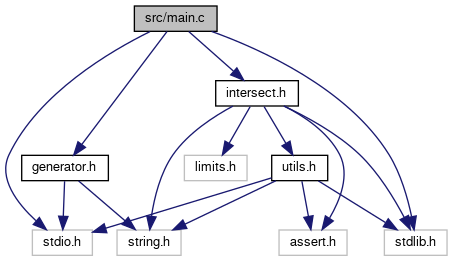
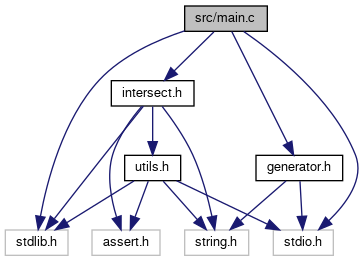
deploy: b0c580b66b162a24068f49e29a3c1f816b29efa1

diff --git a/intersect_8h.html b/intersect_8h.html
@@ -67,6 +67,7 @@ $(function() {
 <div class="header">
   <div class="summary">
 <a href="#nested-classes">Classes</a> &#124;
+<a href="#define-members">Macros</a> &#124;
 <a href="#func-members">Functions</a>  </div>
   <div class="headertitle">
 <div class="title">intersect.h File Reference</div>  </div>
@@ -78,18 +79,16 @@ $(function() {
 <div class="textblock"><code>#include &lt;stdlib.h&gt;</code><br />
 <code>#include &lt;assert.h&gt;</code><br />
 <code>#include &lt;string.h&gt;</code><br />
-<code>#include &lt;limits.h&gt;</code><br />
 <code>#include &quot;<a class="el" href="utils_8h_source.html">utils.h</a>&quot;</code><br />
 </div><div class="textblock"><div class="dynheader">
 Include dependency graph for intersect.h:</div>
 <div class="dyncontent">
 <div class="center"><img src="intersect_8h__incl.png" border="0" usemap="#asrc_2intersect_8h" alt=""/></div>
 <map name="asrc_2intersect_8h" id="asrc_2intersect_8h">
-<area shape="rect" title="Calculating inversions." alt="" coords="139,5,243,32"/>
+<area shape="rect" title="Calculating inversions." alt="" coords="106,5,210,32"/>
 <area shape="rect" title=" " alt="" coords="5,155,68,181"/>
 <area shape="rect" title=" " alt="" coords="92,155,160,181"/>
 <area shape="rect" title=" " alt="" coords="269,155,333,181"/>
-<area shape="rect" title=" " alt="" coords="295,80,357,107"/>
 <area shape="rect" href="utils_8h.html" title="General Utilities." alt="" coords="163,80,219,107"/>
 <area shape="rect" title=" " alt="" coords="184,155,244,181"/>
 </map>
@@ -113,6 +112,12 @@ Classes</h2></td></tr>
 <tr class="separator:"><td class="memSeparator" colspan="2">&#160;</td></tr>
 <tr class="memitem:"><td class="memItemLeft" align="right" valign="top">struct &#160;</td><td class="memItemRight" valign="bottom"><a class="el" href="structPaths.html">Paths</a></td></tr>
 <tr class="separator:"><td class="memSeparator" colspan="2">&#160;</td></tr>
+</table><table class="memberdecls">
+<tr class="heading"><td colspan="2"><h2 class="groupheader"><a name="define-members"></a>
+Macros</h2></td></tr>
+<tr class="memitem:a9ec306f36d50c7375e74f0d1c55a3a67"><td class="memItemLeft" align="right" valign="top"><a id="a9ec306f36d50c7375e74f0d1c55a3a67"></a>
+#define&#160;</td><td class="memItemRight" valign="bottom"><b>INT_MAX</b>&#160;&#160;&#160;2147483647</td></tr>
+<tr class="separator:a9ec306f36d50c7375e74f0d1c55a3a67"><td class="memSeparator" colspan="2">&#160;</td></tr>
 </table><table class="memberdecls">
 <tr class="heading"><td colspan="2"><h2 class="groupheader"><a name="func-members"></a>
 Functions</h2></td></tr>

diff --git a/intersect_8h_source.html b/intersect_8h_source.html
@@ -77,9 +77,9 @@ $(function() {
 <div class="line"><a name="l00015"></a><span class="lineno">   15</span>&#160;<span class="preprocessor">#include &lt;stdlib.h&gt;</span></div>
 <div class="line"><a name="l00016"></a><span class="lineno">   16</span>&#160;<span class="preprocessor">#include &lt;assert.h&gt;</span></div>
 <div class="line"><a name="l00017"></a><span class="lineno">   17</span>&#160;<span class="preprocessor">#include &lt;string.h&gt;</span></div>
-<div class="line"><a name="l00018"></a><span class="lineno">   18</span>&#160;<span class="preprocessor">#include &lt;limits.h&gt;</span> <span class="comment">// INT_MAX</span></div>
-<div class="line"><a name="l00019"></a><span class="lineno">   19</span>&#160;<span class="preprocessor">#include &quot;<a class="code" href="utils_8h.html">utils.h</a>&quot;</span></div>
-<div class="line"><a name="l00020"></a><span class="lineno">   20</span>&#160; </div>
+<div class="line"><a name="l00018"></a><span class="lineno">   18</span>&#160;<span class="preprocessor">#include &quot;<a class="code" href="utils_8h.html">utils.h</a>&quot;</span></div>
+<div class="line"><a name="l00019"></a><span class="lineno">   19</span>&#160; </div>
+<div class="line"><a name="l00020"></a><span class="lineno">   20</span>&#160;<span class="preprocessor">#define INT_MAX 2147483647</span></div>
 <div class="line"><a name="l00021"></a><span class="lineno">   21</span>&#160; </div>
 <div class="line"><a name="l00022"></a><span class="lineno"><a class="line" href="structnode.html">   22</a></span>&#160;<span class="keyword">typedef</span> <span class="keyword">struct </span>{</div>
 <div class="line"><a name="l00023"></a><span class="lineno">   23</span>&#160;  <span class="keywordtype">int</span> val;</div>

diff --git a/main_8c.html b/main_8c.html
@@ -83,15 +83,14 @@ Include dependency graph for main.c:</div>
 <div class="dyncontent">
 <div class="center"><img src="main_8c__incl.png" border="0" usemap="#asrc_2main_8c" alt=""/></div>
 <map name="asrc_2main_8c" id="asrc_2main_8c">
-<area shape="rect" title="Get Triangle Intersections with Merge sort." alt="" coords="134,5,217,32"/>
-<area shape="rect" title=" " alt="" coords="32,229,92,256"/>
-<area shape="rect" title=" " alt="" coords="384,229,447,256"/>
-<area shape="rect" href="intersect_8h.html" title="Calculating inversions." alt="" coords="216,80,298,107"/>
-<area shape="rect" href="generator_8h.html" title="Random generator for triangle coordinations." alt="" coords="22,155,108,181"/>
-<area shape="rect" title=" " alt="" coords="279,229,347,256"/>
-<area shape="rect" title=" " alt="" coords="117,229,181,256"/>
-<area shape="rect" title=" " alt="" coords="184,155,247,181"/>
-<area shape="rect" href="utils_8h.html" title="General Utilities." alt="" coords="272,155,328,181"/>
+<area shape="rect" title="Get Triangle Intersections with Merge sort." alt="" coords="185,5,267,32"/>
+<area shape="rect" title=" " alt="" coords="273,229,333,256"/>
+<area shape="rect" title=" " alt="" coords="5,229,68,256"/>
+<area shape="rect" href="intersect_8h.html" title="Calculating inversions." alt="" coords="111,80,194,107"/>
+<area shape="rect" href="generator_8h.html" title="Random generator for triangle coordinations." alt="" coords="256,155,343,181"/>
+<area shape="rect" title=" " alt="" coords="92,229,160,256"/>
+<area shape="rect" title=" " alt="" coords="185,229,249,256"/>
+<area shape="rect" href="utils_8h.html" title="General Utilities." alt="" coords="125,155,181,181"/>
 </map>
 </div>
 </div><table class="memberdecls">
